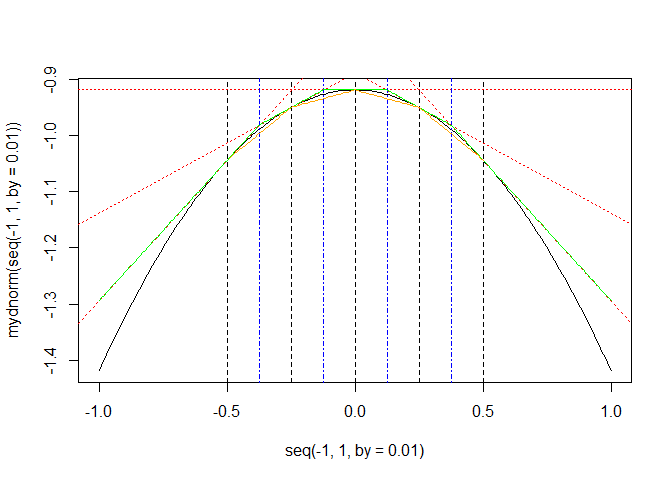
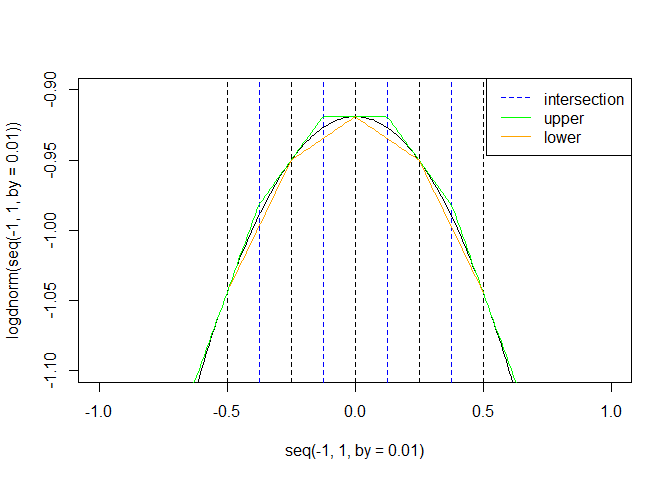
Add: visualize s function

diff --git a/Example/project_try.html b/Example/project_try.html
@@ -71,18 +71,18 @@ img {
 <div id="standard-normal-distribution-as-example" class="section level1">
 <h1>Standard normal distribution as example</h1>
 <pre class="r"><code>#Standard normal(log scale)
-mydnorm &lt;- function(x){
+logdnorm &lt;- function(x){
   -x^2/2 - log(2*pi)/2
 }
 
 #Derivative
-myddnorm &lt;- function(x){
+logddnorm &lt;- function(x){
   -x
 }
 
 x &lt;- seq(-5, 5, 0.01)
-plot(x, dnorm(x, log=TRUE), type=&quot;l&quot;)</code></pre>
[1 lines of base64/hex data omitted]
+plot(x, logdnorm(x), type=&quot;l&quot;)</code></pre>
[1 lines of base64/hex data omitted]
 </div>
 <div id="main-function-pseudo-code" class="section level1">
 <h1>Main function pseudo code</h1>
@@ -91,7 +91,7 @@ plot(x, dnorm(x, log=TRUE), type=&quot;l&quot;)</code></pre>
   x &lt;- seq(-0.5, 0.5, length.out=k)
   
   #z
-  z &lt;- (mydnorm(x[-1]) - mydnorm(x[-k]) - x[-1]*myddnorm(x[-1]) + x[-k]*myddnorm(x[-k]))/(myddnorm(x[-k]) - myddnorm(x[-1]))
+  z &lt;- (logdnorm(x[-1]) - logdnorm(x[-k]) - x[-1]*logddnorm(x[-1]) + x[-k]*logddnorm(x[-k]))/(logddnorm(x[-k]) - logddnorm(x[-1]))
   
   #Compute u
   
@@ -114,16 +114,30 @@ plot(x, dnorm(x, log=TRUE), type=&quot;l&quot;)</code></pre>
 <div id="u-and-l-function" class="section level1">
 <h1>u and l function</h1>
 <pre class="r"><code>u &lt;- function(x1, z){
+  #Construct upper and lower bound
   z &lt;- c(-Inf, z, Inf)
+  
+  #Grouping
   group &lt;- cut(x1, breaks=z)
+  #Check which group the x1 locate
   xj &lt;- x[which(group == levels(group))]
-  mydnorm(xj) + (x1 - xj)*myddnorm(xj)
+  
+  #Compute value
+  logdnorm(xj) + (x1 - xj)*logddnorm(xj)
 }
 
 l &lt;- function(x1, x){
-  xlower &lt;- x[which(x &gt;= x1)[1] - 1]
-  xupper &lt;- x[which(x &gt;= x1)[1]]
-  ifelse(all(x1 &gt; x) | all(x1 &lt; x), -Inf, ((xupper - x1)*mydnorm(xlower) + (x1 - xlower)*mydnorm(xupper))/(xupper - xlower))
+  #Grouping
+  group &lt;- cut(x1, breaks=x)
+  #Check which group the x1 locate
+  xj &lt;- x[which(group == levels(group))]
+  xjplus &lt;- x[which(group == levels(group)) + 1]
+  
+  #Compute value
+  all &lt;- ((xjplus - x1)*logdnorm(xj) + (x1 - xj)*logdnorm(xjplus))/(xjplus - xj)
+  ifelse(identical(numeric(0), all),
+         -Inf,
+         all)
 }</code></pre>
 </div>
 <div id="visualization" class="section level1">
@@ -133,41 +147,24 @@ l &lt;- function(x1, x){
 k &lt;- 5
 x &lt;- seq(-0.5, 0.5, length.out=k)
 #Compute z
-z &lt;- (mydnorm(x[-1]) - mydnorm(x[-k]) - x[-1]*myddnorm(x[-1]) + x[-k]*myddnorm(x[-k]))/(myddnorm(x[-k]) - myddnorm(x[-1]))</code></pre>
+z &lt;- (logdnorm(x[-1]) - logdnorm(x[-k]) - x[-1]*logddnorm(x[-1]) + x[-k]*logddnorm(x[-k]))/(logddnorm(x[-k]) - logddnorm(x[-1]))</code></pre>
 <pre class="r"><code>#function to plot tangent line and intersection
 plot.z &lt;- function(x){
-  slope &lt;- myddnorm(x)
-  intercept &lt;- -(slope*x - mydnorm(x))
+  slope &lt;- logddnorm(x)
+  intercept &lt;- -(slope*x - logdnorm(x))
   
   for(i in 1:length(slope)){
     abline(a=intercept[i], b=slope[i], lty=3, col=&quot;red&quot;)
   }
 
-  z &lt;- (mydnorm(x[-1]) - mydnorm(x[-k]) - x[-1]*myddnorm(x[-1]) + x[-k]*myddnorm(x[-k]))/(myddnorm(x[-k]) - myddnorm(x[-1]))
+  z &lt;- (logdnorm(x[-1]) - logdnorm(x[-k]) - x[-1]*logddnorm(x[-1]) + x[-k]*logddnorm(x[-k]))/(logddnorm(x[-k]) - logddnorm(x[-1]))
   
   abline(v=z, col=&quot;blue&quot;, lty=4)
 }</code></pre>
-<div id="all" class="section level3">
-<h3>All</h3>
+<div id="intersection-upper-and-lower" class="section level3">
+<h3>Intersection, upper and lower</h3>
 <pre class="r"><code>#Density
-plot(seq(-1, 1, by=0.01), mydnorm(seq(-1, 1, by=0.01)), type=&quot;l&quot;)
-
-#Abscissae
-abline(v=x, lty=2)
-
-#
-plot.z(x)
-
-#Add upper and lower
-x1 &lt;- seq(-1, 1, by=0.01)
-lines(x1, sapply(x1, u, z), col=&quot;green&quot;)
-lines(x1, sapply(x1, l, x), col=&quot;orange&quot;)</code></pre>
[1 lines of base64/hex data omitted]
-</div>
-<div id="zoom-in-intersection-upper-and-lower" class="section level3">
-<h3>Zoom in : intersection, upper and lower</h3>
-<pre class="r"><code>#Density
-plot(seq(-1, 1, by=0.01), mydnorm(seq(-1, 1, by=0.01)), type=&quot;l&quot;, ylim=c(-1.1, -0.9))
+plot(seq(-1, 1, by=0.01), logdnorm(seq(-1, 1, by=0.01)), type=&quot;l&quot;, ylim=c(-1.1, -0.9))
 
 #Abscissae
 abline(v=x, lty=2)
@@ -180,7 +177,14 @@ lines(x1, sapply(x1, u, z), col=&quot;green&quot;)
 lines(x1, sapply(x1, l, x), col=&quot;orange&quot;)
 
 legend(&quot;topright&quot;, lty=c(2, 1, 1), col=c(&quot;blue&quot;,&quot;green&quot;,&quot;orange&quot;), legend=c(&quot;intersection&quot;, &quot;upper&quot;, &quot;lower&quot;))</code></pre>
[2 lines of base64/hex data omitted]
+</div>
+<div id="exponential-of-u-function" class="section level3">
+<h3>Exponential of u function</h3>
+<pre class="r"><code>u_exp &lt;- exp(sapply(x1, u, z))
+plot(x1, u_exp, type=&quot;l&quot;)
+abline(v=z)</code></pre>
[1 lines of base64/hex data omitted]
 </div>
 </div>
 

diff --git a/Example/project_try.md b/Example/project_try.md
@@ -9,17 +9,17 @@ November 21, 2015
 
 ```r
 #Standard normal(log scale)
-mydnorm <- function(x){
+logdnorm <- function(x){
   -x^2/2 - log(2*pi)/2
 }
 
 #Derivative
-myddnorm <- function(x){
+logddnorm <- function(x){
   -x
 }
 
 x <- seq(-5, 5, 0.01)
-plot(x, dnorm(x, log=TRUE), type="l")
+plot(x, logdnorm(x), type="l")
 ```
 
 <img src="project_try_files/figure-html/unnamed-chunk-1-1.png" title="" alt="" style="display: block; margin: auto;" />
@@ -32,7 +32,7 @@ experiment <- function(n, k, density_fun, ddensity_fun){
   x <- seq(-0.5, 0.5, length.out=k)
   
   #z
-  z <- (mydnorm(x[-1]) - mydnorm(x[-k]) - x[-1]*myddnorm(x[-1]) + x[-k]*myddnorm(x[-k]))/(myddnorm(x[-k]) - myddnorm(x[-1]))
+  z <- (logdnorm(x[-1]) - logdnorm(x[-k]) - x[-1]*logddnorm(x[-1]) + x[-k]*logddnorm(x[-k]))/(logddnorm(x[-k]) - logddnorm(x[-1]))
   
   #Compute u
   
@@ -57,16 +57,30 @@ experiment <- function(n, k, density_fun, ddensity_fun){
 
 ```r
 u <- function(x1, z){
+  #Construct upper and lower bound
   z <- c(-Inf, z, Inf)
+  
+  #Grouping
   group <- cut(x1, breaks=z)
+  #Check which group the x1 locate
   xj <- x[which(group == levels(group))]
-  mydnorm(xj) + (x1 - xj)*myddnorm(xj)
+  
+  #Compute value
+  logdnorm(xj) + (x1 - xj)*logddnorm(xj)
 }
 
 l <- function(x1, x){
-  xlower <- x[which(x >= x1)[1] - 1]
-  xupper <- x[which(x >= x1)[1]]
-  ifelse(all(x1 > x) | all(x1 < x), -Inf, ((xupper - x1)*mydnorm(xlower) + (x1 - xlower)*mydnorm(xupper))/(xupper - xlower))
+  #Grouping
+  group <- cut(x1, breaks=x)
+  #Check which group the x1 locate
+  xj <- x[which(group == levels(group))]
+  xjplus <- x[which(group == levels(group)) + 1]
+  
+  #Compute value
+  all <- ((xjplus - x1)*logdnorm(xj) + (x1 - xj)*logdnorm(xjplus))/(xjplus - xj)
+  ifelse(identical(numeric(0), all),
+         -Inf,
+         all)
 }
 ```
 
@@ -79,53 +93,32 @@ l <- function(x1, x){
 k <- 5
 x <- seq(-0.5, 0.5, length.out=k)
 #Compute z
-z <- (mydnorm(x[-1]) - mydnorm(x[-k]) - x[-1]*myddnorm(x[-1]) + x[-k]*myddnorm(x[-k]))/(myddnorm(x[-k]) - myddnorm(x[-1]))
+z <- (logdnorm(x[-1]) - logdnorm(x[-k]) - x[-1]*logddnorm(x[-1]) + x[-k]*logddnorm(x[-k]))/(logddnorm(x[-k]) - logddnorm(x[-1]))
 ```
 
 
 ```r
 #function to plot tangent line and intersection
 plot.z <- function(x){
-  slope <- myddnorm(x)
-  intercept <- -(slope*x - mydnorm(x))
+  slope <- logddnorm(x)
+  intercept <- -(slope*x - logdnorm(x))
   
   for(i in 1:length(slope)){
     abline(a=intercept[i], b=slope[i], lty=3, col="red")
   }
 
-  z <- (mydnorm(x[-1]) - mydnorm(x[-k]) - x[-1]*myddnorm(x[-1]) + x[-k]*myddnorm(x[-k]))/(myddnorm(x[-k]) - myddnorm(x[-1]))
+  z <- (logdnorm(x[-1]) - logdnorm(x[-k]) - x[-1]*logddnorm(x[-1]) + x[-k]*logddnorm(x[-k]))/(logddnorm(x[-k]) - logddnorm(x[-1]))
   
   abline(v=z, col="blue", lty=4)
 }
 ```
 
-### All
+### Intersection, upper and lower
 
 
 ```r
 #Density
-plot(seq(-1, 1, by=0.01), mydnorm(seq(-1, 1, by=0.01)), type="l")
-
-#Abscissae
-abline(v=x, lty=2)
-
-#
-plot.z(x)
-
-#Add upper and lower
-x1 <- seq(-1, 1, by=0.01)
-lines(x1, sapply(x1, u, z), col="green")
-lines(x1, sapply(x1, l, x), col="orange")
-```
-
-<img src="project_try_files/figure-html/unnamed-chunk-6-1.png" title="" alt="" style="display: block; margin: auto;" />
-
-### Zoom in : intersection, upper and lower
-
-
-```r
-#Density
-plot(seq(-1, 1, by=0.01), mydnorm(seq(-1, 1, by=0.01)), type="l", ylim=c(-1.1, -0.9))
+plot(seq(-1, 1, by=0.01), logdnorm(seq(-1, 1, by=0.01)), type="l", ylim=c(-1.1, -0.9))
 
 #Abscissae
 abline(v=x, lty=2)
@@ -138,6 +131,17 @@ lines(x1, sapply(x1, u, z), col="green")
 lines(x1, sapply(x1, l, x), col="orange")
 
 legend("topright", lty=c(2, 1, 1), col=c("blue","green","orange"), legend=c("intersection", "upper", "lower"))
+```
+
+<img src="project_try_files/figure-html/unnamed-chunk-6-1.png" title="" alt="" style="display: block; margin: auto;" />
+
+### Exponential of u function
+
+
+```r
+u_exp <- exp(sapply(x1, u, z))
+plot(x1, u_exp, type="l")
+abline(v=z)
 ```
 
 <img src="project_try_files/figure-html/unnamed-chunk-7-1.png" title="" alt="" style="display: block; margin: auto;" />
